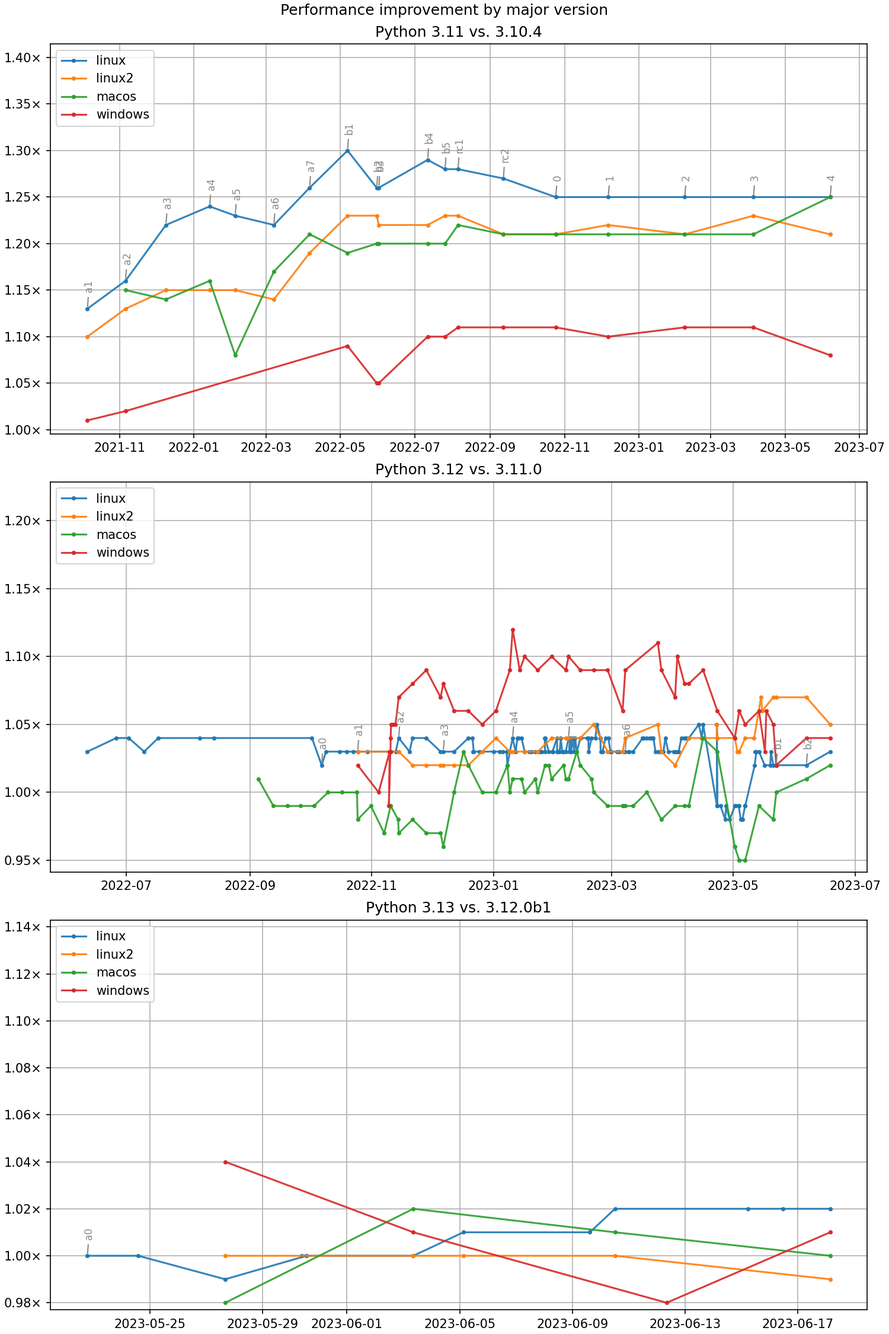
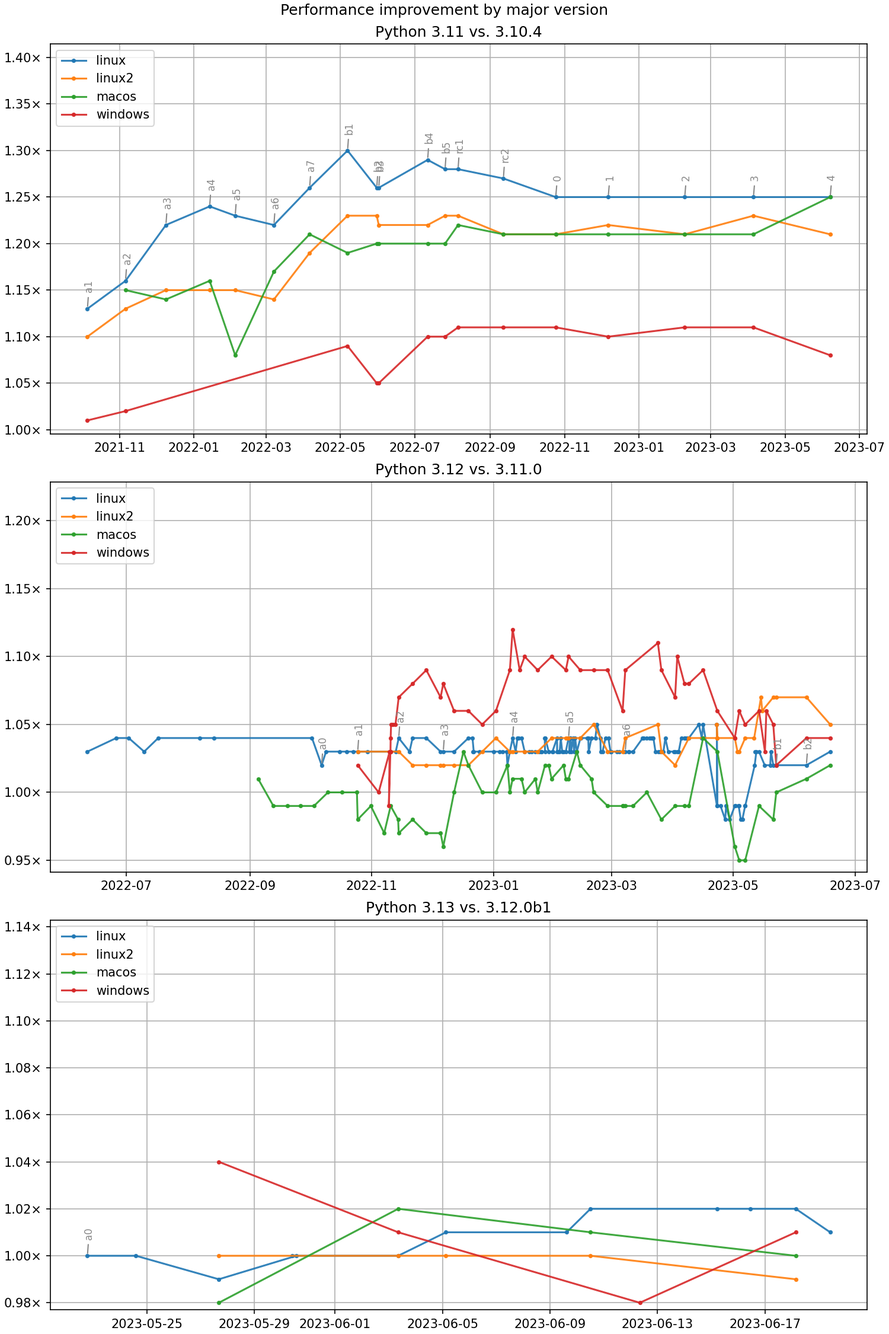
Benchmarking results for @gvanrossum

Changed region(s): [[0.2453, 0.8711, 0.9507, 0.9956], [0.1227, 0.9333, 0.184, 0.9956]]

diff --git a/results/bm-20230619-3.13.0a0-1858db7/bm-20230619-linux-x86_64-python-1858db7cbdbf41aa600c-3.13.0a0-1858db7-vs-3.10.4.md b/results/bm-20230619-3.13.0a0-1858db7/bm-20230619-linux-x86_64-python-1858db7cbdbf41aa600c-3.13.0a0-1858db7-vs-3.10.4.md
@@ -1,0 +1,166 @@
+
+# Results vs. 3.10.4
+
+- fork: python
+- ref: 1858db7cbdbf41aa600c
+- machine: linux-x86_64
+- commit hash: 1858db7
+- commit date: 2023-06-19
+- overall geometric mean: 1.30x faster
+
+Benchmarks with tag 'apps':
+===========================
+
+| Benchmark      | bm-20220323-linux-x86_64-python-v3.10.4-3.10.4-9d38120 | bm-20230619-linux-x86_64-python-1858db7cbdbf41aa600c-3.13.0a0-1858db7 |
+|----------------|:------------------------------------------------------:|:---------------------------------------------------------------------:|
+| docutils       | 3.17 sec                                               | 2.65 sec: 1.20x faster                                                |
+| tornado_http   | 127 ms                                                 | 97.5 ms: 1.31x faster                                                 |
+| Geometric mean | (ref)                                                  | 1.25x faster                                                          |
+
+Benchmarks with tag 'math':
+===========================
+
+| Benchmark      | bm-20220323-linux-x86_64-python-v3.10.4-3.10.4-9d38120 | bm-20230619-linux-x86_64-python-1858db7cbdbf41aa600c-3.13.0a0-1858db7 |
+|----------------|:------------------------------------------------------:|:---------------------------------------------------------------------:|
+| nbody          | 142 ms                                                 | 89.8 ms: 1.58x faster                                                 |
+| float          | 111 ms                                                 | 79.5 ms: 1.39x faster                                                 |
+| pidigits       | 190 ms                                                 | 197 ms: 1.04x slower                                                  |
+| Geometric mean | (ref)                                                  | 1.28x faster                                                          |
+
+Benchmarks with tag 'regex':
+============================
+
+| Benchmark      | bm-20220323-linux-x86_64-python-v3.10.4-3.10.4-9d38120 | bm-20230619-linux-x86_64-python-1858db7cbdbf41aa600c-3.13.0a0-1858db7 |
+|----------------|:------------------------------------------------------:|:---------------------------------------------------------------------:|
+| regex_compile  | 177 ms                                                 | 136 ms: 1.30x faster                                                  |
+| regex_v8       | 25.0 ms                                                | 22.0 ms: 1.14x faster                                                 |
+| regex_dna      | 222 ms                                                 | 208 ms: 1.07x faster                                                  |
+| regex_effbot   | 3.23 ms                                                | 3.50 ms: 1.09x slower                                                 |
+| Geometric mean | (ref)                                                  | 1.10x faster                                                          |
+
+Benchmarks with tag 'serialize':
+================================
+
+| Benchmark            | bm-20220323-linux-x86_64-python-v3.10.4-3.10.4-9d38120 | bm-20230619-linux-x86_64-python-1858db7cbdbf41aa600c-3.13.0a0-1858db7 |
+|----------------------|:------------------------------------------------------:|:---------------------------------------------------------------------:|
+| pickle_pure_python   | 455 us                                                 | 308 us: 1.48x faster                                                  |
+| unpickle_pure_python | 300 us                                                 | 216 us: 1.39x faster                                                  |
+| json_dumps           | 13.5 ms                                                | 9.76 ms: 1.39x faster                                                 |
+| tomli_loads          | 2.92 sec                                               | 2.21 sec: 1.32x faster                                                |
+| xml_etree_process    | 74.9 ms                                                | 57.7 ms: 1.30x faster                                                 |
+| json_loads           | 28.8 us                                                | 25.0 us: 1.15x faster                                                 |
+| xml_etree_generate   | 94.2 ms                                                | 84.5 ms: 1.11x faster                                                 |
+| xml_etree_iterparse  | 111 ms                                                 | 104 ms: 1.08x faster                                                  |
+| xml_etree_parse      | 163 ms                                                 | 153 ms: 1.07x faster                                                  |
+| pickle               | 10.3 us                                                | 10.6 us: 1.03x slower                                                 |
+| unpickle_list        | 4.82 us                                                | 4.95 us: 1.03x slower                                                 |
+| pickle_list          | 4.56 us                                                | 4.69 us: 1.03x slower                                                 |
+| unpickle             | 14.1 us                                                | 14.9 us: 1.05x slower                                                 |
+| pickle_dict          | 27.3 us                                                | 31.5 us: 1.16x slower                                                 |
+| Geometric mean       | (ref)                                                  | 1.13x faster                                                          |
+
+Benchmarks with tag 'startup':
+==============================
+
+| Benchmark              | bm-20220323-linux-x86_64-python-v3.10.4-3.10.4-9d38120 | bm-20230619-linux-x86_64-python-1858db7cbdbf41aa600c-3.13.0a0-1858db7 |
+|------------------------|:------------------------------------------------------:|:---------------------------------------------------------------------:|
+| python_startup         | 14.2 ms                                                | 9.20 ms: 1.54x faster                                                 |
+| python_startup_no_site | 5.82 ms                                                | 6.68 ms: 1.15x slower                                                 |
+| Geometric mean         | (ref)                                                  | 1.16x faster                                                          |
+
+Benchmarks with tag 'template':
+===============================
+
+| Benchmark | bm-20220323-linux-x86_64-python-v3.10.4-3.10.4-9d38120 | bm-20230619-linux-x86_64-python-1858db7cbdbf41aa600c-3.13.0a0-1858db7 |
+|-----------|:------------------------------------------------------:|:---------------------------------------------------------------------:|
+| mako      | 14.8 ms                                                | 10.9 ms: 1.35x faster                                                 |
+
+All benchmarks:
+===============
+
+| Benchmark                | bm-20220323-linux-x86_64-python-v3.10.4-3.10.4-9d38120 | bm-20230619-linux-x86_64-python-1858db7cbdbf41aa600c-3.13.0a0-1858db7 |
+|--------------------------|:------------------------------------------------------:|:---------------------------------------------------------------------:|
+| typing_runtime_protocols | 510 us                                                 | 141 us: 3.63x faster                                                  |
+| generators               | 76.8 ms                                                | 29.6 ms: 2.60x faster                                                 |
+| deltablue                | 7.42 ms                                                | 3.28 ms: 2.26x faster                                                 |
+| asyncio_tcp              | 925 ms                                                 | 507 ms: 1.82x faster                                                  |
+| richards_super           | 90.7 ms                                                | 50.3 ms: 1.80x faster                                                 |
+| logging_silent           | 175 ns                                                 | 101 ns: 1.74x faster                                                  |
+| chaos                    | 106 ms                                                 | 61.8 ms: 1.72x faster                                                 |
+| richards                 | 74.9 ms                                                | 44.2 ms: 1.70x faster                                                 |
+| go                       | 229 ms                                                 | 135 ms: 1.69x faster                                                  |
+| asyncio_tcp_ssl          | 3.01 sec                                               | 1.79 sec: 1.68x faster                                                |
+| scimark_sor              | 197 ms                                                 | 120 ms: 1.64x faster                                                  |
+| raytrace                 | 464 ms                                                 | 294 ms: 1.58x faster                                                  |
+| nbody                    | 142 ms                                                 | 89.8 ms: 1.58x faster                                                 |
+| hexiom                   | 9.53 ms                                                | 6.09 ms: 1.56x faster                                                 |
+| sqlglot_parse            | 2.06 ms                                                | 1.32 ms: 1.56x faster                                                 |
+| crypto_pyaes             | 118 ms                                                 | 76.7 ms: 1.54x faster                                                 |
+| python_startup           | 14.2 ms                                                | 9.20 ms: 1.54x faster                                                 |
+| scimark_monte_carlo      | 108 ms                                                 | 71.2 ms: 1.52x faster                                                 |
+| sqlglot_transpile        | 2.45 ms                                                | 1.63 ms: 1.50x faster                                                 |
+| unpack_sequence          | 64.7 ns                                                | 43.3 ns: 1.49x faster                                                 |
+| pyflate                  | 673 ms                                                 | 452 ms: 1.49x faster                                                  |
+| async_tree_io            | 1.77 sec                                               | 1.20 sec: 1.48x faster                                                |
+| async_tree_none          | 717 ms                                                 | 484 ms: 1.48x faster                                                  |
+| pickle_pure_python       | 455 us                                                 | 308 us: 1.48x faster                                                  |
+| scimark_lu               | 163 ms                                                 | 110 ms: 1.48x faster                                                  |
+| async_tree_memoization   | 854 ms                                                 | 588 ms: 1.45x faster                                                  |
+| spectral_norm            | 150 ms                                                 | 104 ms: 1.44x faster                                                  |
+| coroutines               | 31.8 ms                                                | 22.5 ms: 1.41x faster                                                 |
+| float                    | 111 ms                                                 | 79.5 ms: 1.39x faster                                                 |
+| deepcopy_memo            | 52.3 us                                                | 37.7 us: 1.39x faster                                                 |
+| unpickle_pure_python     | 300 us                                                 | 216 us: 1.39x faster                                                  |
+| json_dumps               | 13.5 ms                                                | 9.76 ms: 1.39x faster                                                 |
+| logging_format           | 8.91 us                                                | 6.57 us: 1.36x faster                                                 |
+| mako                     | 14.8 ms                                                | 10.9 ms: 1.35x faster                                                 |
+| pprint_pformat           | 1.99 sec                                               | 1.48 sec: 1.34x faster                                                |
+| logging_simple           | 8.07 us                                                | 6.09 us: 1.33x faster                                                 |
+| pycparser                | 1.50 sec                                               | 1.13 sec: 1.32x faster                                                |
+| tomli_loads              | 2.92 sec                                               | 2.21 sec: 1.32x faster                                                |
+| async_tree_cpu_io_mixed  | 951 ms                                                 | 726 ms: 1.31x faster                                                  |
+| pprint_safe_repr         | 955 ms                                                 | 729 ms: 1.31x faster                                                  |
+| tornado_http             | 127 ms                                                 | 97.5 ms: 1.31x faster                                                 |
+| regex_compile            | 177 ms                                                 | 136 ms: 1.30x faster                                                  |
+| comprehensions           | 26.8 us                                                | 20.7 us: 1.30x faster                                                 |
+| xml_etree_process        | 74.9 ms                                                | 57.7 ms: 1.30x faster                                                 |
+| mypy2                    | 428 ms                                                 | 339 ms: 1.27x faster                                                  |
+| nqueens                  | 100 ms                                                 | 79.2 ms: 1.26x faster                                                 |
+| sqlglot_normalize        | 135 ms                                                 | 107 ms: 1.26x faster                                                  |
+| deepcopy                 | 442 us                                                 | 356 us: 1.24x faster                                                  |
+| fannkuch                 | 486 ms                                                 | 394 ms: 1.23x faster                                                  |
+| scimark_fft              | 424 ms                                                 | 344 ms: 1.23x faster                                                  |
+| sqlglot_optimize         | 65.3 ms                                                | 53.1 ms: 1.23x faster                                                 |
+| deepcopy_reduce          | 3.82 us                                                | 3.17 us: 1.21x faster                                                 |
+| docutils                 | 3.17 sec                                               | 2.65 sec: 1.20x faster                                                |
+| scimark_sparse_mat_mult  | 5.45 ms                                                | 4.63 ms: 1.18x faster                                                 |
+| dulwich_log              | 75.9 ms                                                | 65.4 ms: 1.16x faster                                                 |
+| bench_thread_pool        | 947 us                                                 | 821 us: 1.15x faster                                                  |
+| json_loads               | 28.8 us                                                | 25.0 us: 1.15x faster                                                 |
+| regex_v8                 | 25.0 ms                                                | 22.0 ms: 1.14x faster                                                 |
+| json                     | 5.42 ms                                                | 4.80 ms: 1.13x faster                                                 |
+| mdp                      | 2.82 sec                                               | 2.53 sec: 1.12x faster                                                |
+| xml_etree_generate       | 94.2 ms                                                | 84.5 ms: 1.11x faster                                                 |
+| create_gc_cycles         | 1.67 ms                                                | 1.51 ms: 1.11x faster                                                 |
+| meteor_contest           | 115 ms                                                 | 104 ms: 1.10x faster                                                  |
+| sqlite_synth             | 2.93 us                                                | 2.71 us: 1.08x faster                                                 |
+| xml_etree_iterparse      | 111 ms                                                 | 104 ms: 1.08x faster                                                  |
+| xml_etree_parse          | 163 ms                                                 | 153 ms: 1.07x faster                                                  |
+| regex_dna                | 222 ms                                                 | 208 ms: 1.07x faster                                                  |
+| pathlib                  | 20.0 ms                                                | 18.8 ms: 1.07x faster                                                 |
+| bench_mp_pool            | 24.0 ms                                                | 24.0 ms: 1.00x slower                                                 |
+| gc_traversal             | 3.84 ms                                                | 3.93 ms: 1.02x slower                                                 |
+| pickle                   | 10.3 us                                                | 10.6 us: 1.03x slower                                                 |
+| unpickle_list            | 4.82 us                                                | 4.95 us: 1.03x slower                                                 |
+| pickle_list              | 4.56 us                                                | 4.69 us: 1.03x slower                                                 |
+| pidigits                 | 190 ms                                                 | 197 ms: 1.04x slower                                                  |
+| unpickle                 | 14.1 us                                                | 14.9 us: 1.05x slower                                                 |
+| telco                    | 6.54 ms                                                | 6.91 ms: 1.06x slower                                                 |
+| async_generators         | 425 ms                                                 | 458 ms: 1.08x slower                                                  |
+| regex_effbot             | 3.23 ms                                                | 3.50 ms: 1.09x slower                                                 |
+| python_startup_no_site   | 5.82 ms                                                | 6.68 ms: 1.15x slower                                                 |
+| pickle_dict              | 27.3 us                                                | 31.5 us: 1.16x slower                                                 |
+| dask                     | 423 ms                                                 | 523 ms: 1.24x slower                                                  |
+| coverage                 | 72.8 ms                                                | 93.4 ms: 1.28x slower                                                 |
+| Geometric mean           | (ref)                                                  | 1.30x faster                                                          |
+Ignored benchmarks (18) of /home/runner/work/benchmarking/benchmarking/results/bm-20220323-3.10.4-9d38120/bm-20220323-linux-x86_64-python-v3.10.4-3.10.4-9d38120.json: 2to3, aiohttp, chameleon, django_template, djangocms, flaskblogging, genshi_text, genshi_xml, gunicorn, html5lib, pylint, sqlalchemy_declarative, sqlalchemy_imperative, sympy_expand, sympy_integrate, sympy_str, sympy_sum, thrift

diff --git a/results/bm-20230619-3.13.0a0-1858db7/bm-20230619-linux-x86_64-python-1858db7cbdbf41aa600c-3.13.0a0-1858db7-vs-3.11.0.md b/results/bm-20230619-3.13.0a0-1858db7/bm-20230619-linux-x86_64-python-1858db7cbdbf41aa600c-3.13.0a0-1858db7-vs-3.11.0.md
@@ -1,0 +1,162 @@
+
+# Results vs. 3.11.0
+
+- fork: python
+- ref: 1858db7cbdbf41aa600c
+- machine: linux-x86_64
+- commit hash: 1858db7
+- commit date: 2023-06-19
+- overall geometric mean: 1.04x faster
+
+Benchmarks with tag 'apps':
+===========================
+
+| Benchmark      | bm-20221024-linux-x86_64-python-v3.11.0-3.11.0-deaf509 | bm-20230619-linux-x86_64-python-1858db7cbdbf41aa600c-3.13.0a0-1858db7 |
+|----------------|:------------------------------------------------------:|:---------------------------------------------------------------------:|
+| docutils       | 2.63 sec                                               | 2.65 sec: 1.01x slower                                                |
+| tornado_http   | 96.3 ms                                                | 97.5 ms: 1.01x slower                                                 |
+| Geometric mean | (ref)                                                  | 1.01x slower                                                          |
+
+Benchmarks with tag 'math':
+===========================
+
+| Benchmark      | bm-20221024-linux-x86_64-python-v3.11.0-3.11.0-deaf509 | bm-20230619-linux-x86_64-python-1858db7cbdbf41aa600c-3.13.0a0-1858db7 |
+|----------------|:------------------------------------------------------:|:---------------------------------------------------------------------:|
+| nbody          | 93.1 ms                                                | 89.8 ms: 1.04x faster                                                 |
+| pidigits       | 198 ms                                                 | 197 ms: 1.00x faster                                                  |
+| float          | 77.2 ms                                                | 79.5 ms: 1.03x slower                                                 |
+| Geometric mean | (ref)                                                  | 1.00x faster                                                          |
+
+Benchmarks with tag 'regex':
+============================
+
+| Benchmark      | bm-20221024-linux-x86_64-python-v3.11.0-3.11.0-deaf509 | bm-20230619-linux-x86_64-python-1858db7cbdbf41aa600c-3.13.0a0-1858db7 |
+|----------------|:------------------------------------------------------:|:---------------------------------------------------------------------:|
+| regex_effbot   | 3.99 ms                                                | 3.50 ms: 1.14x faster                                                 |
+| regex_compile  | 138 ms                                                 | 136 ms: 1.02x faster                                                  |
+| regex_dna      | 204 ms                                                 | 208 ms: 1.02x slower                                                  |
+| Geometric mean | (ref)                                                  | 1.03x faster                                                          |
+
+Benchmark hidden because not significant (1): regex_v8
+
+Benchmarks with tag 'serialize':
+================================
+
+| Benchmark            | bm-20221024-linux-x86_64-python-v3.11.0-3.11.0-deaf509 | bm-20230619-linux-x86_64-python-1858db7cbdbf41aa600c-3.13.0a0-1858db7 |
+|----------------------|:------------------------------------------------------:|:---------------------------------------------------------------------:|
+| json_dumps           | 12.6 ms                                                | 9.76 ms: 1.29x faster                                                 |
+| json_loads           | 26.5 us                                                | 25.0 us: 1.06x faster                                                 |
+| unpickle_pure_python | 228 us                                                 | 216 us: 1.06x faster                                                  |
+| xml_etree_parse      | 158 ms                                                 | 153 ms: 1.04x faster                                                  |
+| pickle_pure_python   | 306 us                                                 | 308 us: 1.01x slower                                                  |
+| unpickle_list        | 4.91 us                                                | 4.95 us: 1.01x slower                                                 |
+| pickle_dict          | 31.1 us                                                | 31.5 us: 1.01x slower                                                 |
+| pickle               | 10.1 us                                                | 10.6 us: 1.05x slower                                                 |
+| xml_etree_process    | 53.9 ms                                                | 57.7 ms: 1.07x slower                                                 |
+| unpickle             | 13.7 us                                                | 14.9 us: 1.09x slower                                                 |
+| xml_etree_generate   | 76.2 ms                                                | 84.5 ms: 1.11x slower                                                 |
+| pickle_list          | 4.11 us                                                | 4.69 us: 1.14x slower                                                 |
+| Geometric mean       | (ref)                                                  | 1.00x slower                                                          |
+
+Benchmark hidden because not significant (2): xml_etree_iterparse, tomli_loads
+
+Benchmarks with tag 'startup':
+==============================
+
+| Benchmark              | bm-20221024-linux-x86_64-python-v3.11.0-3.11.0-deaf509 | bm-20230619-linux-x86_64-python-1858db7cbdbf41aa600c-3.13.0a0-1858db7 |
+|------------------------|:------------------------------------------------------:|:---------------------------------------------------------------------:|
+| python_startup         | 8.52 ms                                                | 9.20 ms: 1.08x slower                                                 |
+| python_startup_no_site | 6.01 ms                                                | 6.68 ms: 1.11x slower                                                 |
+| Geometric mean         | (ref)                                                  | 1.10x slower                                                          |
+
+Benchmarks with tag 'template':
+===============================
+
+| Benchmark | bm-20221024-linux-x86_64-python-v3.11.0-3.11.0-deaf509 | bm-20230619-linux-x86_64-python-1858db7cbdbf41aa600c-3.13.0a0-1858db7 |
+|-----------|:------------------------------------------------------:|:---------------------------------------------------------------------:|
+| mako      | 10.1 ms                                                | 10.9 ms: 1.08x slower                                                 |
+
+All benchmarks:
+===============
+
+| Benchmark                | bm-20221024-linux-x86_64-python-v3.11.0-3.11.0-deaf509 | bm-20230619-linux-x86_64-python-1858db7cbdbf41aa600c-3.13.0a0-1858db7 |
+|--------------------------|:------------------------------------------------------:|:---------------------------------------------------------------------:|
+| typing_runtime_protocols | 486 us                                                 | 141 us: 3.46x faster                                                  |
+| generators               | 73.5 ms                                                | 29.6 ms: 2.49x faster                                                 |
+| asyncio_tcp              | 922 ms                                                 | 507 ms: 1.82x faster                                                  |
+| asyncio_tcp_ssl          | 3.14 sec                                               | 1.79 sec: 1.75x faster                                                |
+| json_dumps               | 12.6 ms                                                | 9.76 ms: 1.29x faster                                                 |
+| mypy2                    | 420 ms                                                 | 339 ms: 1.24x faster                                                  |
+| regex_effbot             | 3.99 ms                                                | 3.50 ms: 1.14x faster                                                 |
+| coroutines               | 25.5 ms                                                | 22.5 ms: 1.13x faster                                                 |
+| richards_super           | 56.8 ms                                                | 50.3 ms: 1.13x faster                                                 |
+| deltablue                | 3.67 ms                                                | 3.28 ms: 1.12x faster                                                 |
+| chaos                    | 69.2 ms                                                | 61.8 ms: 1.12x faster                                                 |
+| async_tree_none          | 526 ms                                                 | 484 ms: 1.09x faster                                                  |
+| comprehensions           | 22.4 us                                                | 20.7 us: 1.09x faster                                                 |
+| async_tree_io            | 1.30 sec                                               | 1.20 sec: 1.08x faster                                                |
+| coverage                 | 100 ms                                                 | 93.4 ms: 1.07x faster                                                 |
+| async_tree_memoization   | 627 ms                                                 | 588 ms: 1.07x faster                                                  |
+| sqlglot_parse            | 1.40 ms                                                | 1.32 ms: 1.06x faster                                                 |
+| json_loads               | 26.5 us                                                | 25.0 us: 1.06x faster                                                 |
+| unpickle_pure_python     | 228 us                                                 | 216 us: 1.06x faster                                                  |
+| nqueens                  | 83.4 ms                                                | 79.2 ms: 1.05x faster                                                 |
+| hexiom                   | 6.37 ms                                                | 6.09 ms: 1.05x faster                                                 |
+| sqlglot_transpile        | 1.70 ms                                                | 1.63 ms: 1.04x faster                                                 |
+| pycparser                | 1.18 sec                                               | 1.13 sec: 1.04x faster                                                |
+| xml_etree_parse          | 158 ms                                                 | 153 ms: 1.04x faster                                                  |
+| nbody                    | 93.1 ms                                                | 89.8 ms: 1.04x faster                                                 |
+| richards                 | 45.7 ms                                                | 44.2 ms: 1.04x faster                                                 |
+| mdp                      | 2.62 sec                                               | 2.53 sec: 1.03x faster                                                |
+| go                       | 140 ms                                                 | 135 ms: 1.03x faster                                                  |
+| json                     | 4.94 ms                                                | 4.80 ms: 1.03x faster                                                 |
+| gc_traversal             | 4.02 ms                                                | 3.93 ms: 1.02x faster                                                 |
+| meteor_contest           | 107 ms                                                 | 104 ms: 1.02x faster                                                  |
+| logging_format           | 6.68 us                                                | 6.57 us: 1.02x faster                                                 |
+| async_tree_cpu_io_mixed  | 739 ms                                                 | 726 ms: 1.02x faster                                                  |
+| regex_compile            | 138 ms                                                 | 136 ms: 1.02x faster                                                  |
+| raytrace                 | 297 ms                                                 | 294 ms: 1.01x faster                                                  |
+| sqlglot_normalize        | 108 ms                                                 | 107 ms: 1.01x faster                                                  |
+| pidigits                 | 198 ms                                                 | 197 ms: 1.00x faster                                                  |
+| bench_thread_pool        | 819 us                                                 | 821 us: 1.00x slower                                                  |
+| pickle_pure_python       | 306 us                                                 | 308 us: 1.01x slower                                                  |
+| scimark_lu               | 110 ms                                                 | 110 ms: 1.01x slower                                                  |
+| docutils                 | 2.63 sec                                               | 2.65 sec: 1.01x slower                                                |
+| unpickle_list            | 4.91 us                                                | 4.95 us: 1.01x slower                                                 |
+| logging_simple           | 6.03 us                                                | 6.09 us: 1.01x slower                                                 |
+| tornado_http             | 96.3 ms                                                | 97.5 ms: 1.01x slower                                                 |
+| scimark_sor              | 118 ms                                                 | 120 ms: 1.01x slower                                                  |
+| pickle_dict              | 31.1 us                                                | 31.5 us: 1.01x slower                                                 |
+| create_gc_cycles         | 1.49 ms                                                | 1.51 ms: 1.01x slower                                                 |
+| fannkuch                 | 388 ms                                                 | 394 ms: 1.01x slower                                                  |
+| pprint_pformat           | 1.46 sec                                               | 1.48 sec: 1.02x slower                                                |
+| deepcopy_memo            | 37.0 us                                                | 37.7 us: 1.02x slower                                                 |
+| regex_dna                | 204 ms                                                 | 208 ms: 1.02x slower                                                  |
+| crypto_pyaes             | 74.7 ms                                                | 76.7 ms: 1.03x slower                                                 |
+| dulwich_log              | 63.7 ms                                                | 65.4 ms: 1.03x slower                                                 |
+| float                    | 77.2 ms                                                | 79.5 ms: 1.03x slower                                                 |
+| pathlib                  | 18.2 ms                                                | 18.8 ms: 1.03x slower                                                 |
+| scimark_sparse_mat_mult  | 4.50 ms                                                | 4.63 ms: 1.03x slower                                                 |
+| pprint_safe_repr         | 701 ms                                                 | 729 ms: 1.04x slower                                                  |
+| spectral_norm            | 100 ms                                                 | 104 ms: 1.04x slower                                                  |
+| deepcopy                 | 342 us                                                 | 356 us: 1.04x slower                                                  |
+| scimark_monte_carlo      | 68.1 ms                                                | 71.2 ms: 1.05x slower                                                 |
+| scimark_fft              | 328 ms                                                 | 344 ms: 1.05x slower                                                  |
+| pickle                   | 10.1 us                                                | 10.6 us: 1.05x slower                                                 |
+| telco                    | 6.58 ms                                                | 6.91 ms: 1.05x slower                                                 |
+| xml_etree_process        | 53.9 ms                                                | 57.7 ms: 1.07x slower                                                 |
+| sqlite_synth             | 2.52 us                                                | 2.71 us: 1.08x slower                                                 |
+| python_startup           | 8.52 ms                                                | 9.20 ms: 1.08x slower                                                 |
+| deepcopy_reduce          | 2.94 us                                                | 3.17 us: 1.08x slower                                                 |
+| pyflate                  | 418 ms                                                 | 452 ms: 1.08x slower                                                  |
+| mako                     | 10.1 ms                                                | 10.9 ms: 1.08x slower                                                 |
+| unpickle                 | 13.7 us                                                | 14.9 us: 1.09x slower                                                 |
+| xml_etree_generate       | 76.2 ms                                                | 84.5 ms: 1.11x slower                                                 |
+| python_startup_no_site   | 6.01 ms                                                | 6.68 ms: 1.11x slower                                                 |
+| pickle_list              | 4.11 us                                                | 4.69 us: 1.14x slower                                                 |
+| async_generators         | 368 ms                                                 | 458 ms: 1.24x slower                                                  |
+| dask                     | 360 ms                                                 | 523 ms: 1.45x slower                                                  |
+| Geometric mean           | (ref)                                                  | 1.04x faster                                                          |
+
+Benchmark hidden because not significant (7): xml_etree_iterparse, tomli_loads, logging_silent, bench_mp_pool, regex_v8, sqlglot_optimize, unpack_sequence
+Ignored benchmarks (18) of /home/runner/work/benchmarking/benchmarking/results/bm-20221024-3.11.0-deaf509/bm-20221024-linux-x86_64-python-v3.11.0-3.11.0-deaf509.json: 2to3, aiohttp, chameleon, django_template, djangocms, flaskblogging, genshi_text, genshi_xml, gunicorn, html5lib, pylint, sqlalchemy_declarative, sqlalchemy_imperative, sympy_expand, sympy_integrate, sympy_str, sympy_sum, thrift

diff --git a/README.md b/README.md
@@ -10,6 +10,7 @@ Here are some recent and important revisions. 👉 [Complete list of results](RE
 ## linux x86_64 (linux)
 | date | fork | ref | version | hash | vs. 3.10.4: | vs. 3.11.0: | vs. base: |
 | --- | --- | --- | --- | --- | ---: | ---: | ---: |
+| [2023-06-19](results/bm-20230619-3.13.0a0-1858db7) | python | 1858db7cbd | 3.13.0a0 | 1858db7 | [1.30x faster](results/bm-20230619-3.13.0a0-1858db7/bm-20230619-linux-x86_64-python-1858db7cbdbf41aa600c-3.13.0a0-1858db7-vs-3.10.4.md) | [1.04x faster](results/bm-20230619-3.13.0a0-1858db7/bm-20230619-linux-x86_64-python-1858db7cbdbf41aa600c-3.13.0a0-1858db7-vs-3.11.0.md) |  |
 | [2023-06-18](results/bm-20230618-3.13.0a0-dba7217) | python | dba7217511 | 3.13.0a0 | dba7217 | [1.30x faster](results/bm-20230618-3.13.0a0-dba7217/bm-20230618-linux-x86_64-python-dba72175116373c1d15e-3.13.0a0-dba7217-vs-3.10.4.md) | [1.04x faster](results/bm-20230618-3.13.0a0-dba7217/bm-20230618-linux-x86_64-python-dba72175116373c1d15e-3.13.0a0-dba7217-vs-3.11.0.md) |  |
 | [2023-06-16](results/bm-20230616-3.13.0a0-2beab5b) | python | 2beab5bdef | 3.13.0a0 | 2beab5b | [1.30x faster](results/bm-20230616-3.13.0a0-2beab5b/bm-20230616-linux-x86_64-python-2beab5bdef5fa2a00a59-3.13.0a0-2beab5b-vs-3.10.4.md) | [1.05x faster](results/bm-20230616-3.13.0a0-2beab5b/bm-20230616-linux-x86_64-python-2beab5bdef5fa2a00a59-3.13.0a0-2beab5b-vs-3.11.0.md) |  |
 | [2023-06-16](results/bm-20230616-3.13.0a0-47205b2) | brandtbucher | clean_up_c | 3.13.0a0 | 47205b2 | [1.29x faster](results/bm-20230616-3.13.0a0-47205b2/bm-20230616-linux-x86_64-brandtbucher-clean_up_calls-3.13.0a0-47205b2-vs-3.10.4.md) | [1.03x faster](results/bm-20230616-3.13.0a0-47205b2/bm-20230616-linux-x86_64-brandtbucher-clean_up_calls-3.13.0a0-47205b2-vs-3.11.0.md) | [1.01x slower](results/bm-20230616-3.13.0a0-47205b2/bm-20230616-linux-x86_64-brandtbucher-clean_up_calls-3.13.0a0-47205b2-vs-base.md) |

diff --git a/RESULTS.md b/RESULTS.md
@@ -4,6 +4,7 @@
 ## linux x86_64 (linux)
 | date | fork | ref | version | hash | vs. 3.10.4: | vs. 3.11.0: | vs. base: |
 | --- | --- | --- | --- | --- | ---: | ---: | ---: |
+| [2023-06-19](results/bm-20230619-3.13.0a0-1858db7) | python | 1858db7cbd | 3.13.0a0 | 1858db7 | [1.30x faster](results/bm-20230619-3.13.0a0-1858db7/bm-20230619-linux-x86_64-python-1858db7cbdbf41aa600c-3.13.0a0-1858db7-vs-3.10.4.md) | [1.04x faster](results/bm-20230619-3.13.0a0-1858db7/bm-20230619-linux-x86_64-python-1858db7cbdbf41aa600c-3.13.0a0-1858db7-vs-3.11.0.md) |  |
 | [2023-06-18](results/bm-20230618-3.13.0a0-dba7217) | python | dba7217511 | 3.13.0a0 | dba7217 | [1.30x faster](results/bm-20230618-3.13.0a0-dba7217/bm-20230618-linux-x86_64-python-dba72175116373c1d15e-3.13.0a0-dba7217-vs-3.10.4.md) | [1.04x faster](results/bm-20230618-3.13.0a0-dba7217/bm-20230618-linux-x86_64-python-dba72175116373c1d15e-3.13.0a0-dba7217-vs-3.11.0.md) |  |
 | [2023-06-16](results/bm-20230616-3.13.0a0-2beab5b) | python | 2beab5bdef | 3.13.0a0 | 2beab5b | [1.30x faster](results/bm-20230616-3.13.0a0-2beab5b/bm-20230616-linux-x86_64-python-2beab5bdef5fa2a00a59-3.13.0a0-2beab5b-vs-3.10.4.md) | [1.05x faster](results/bm-20230616-3.13.0a0-2beab5b/bm-20230616-linux-x86_64-python-2beab5bdef5fa2a00a59-3.13.0a0-2beab5b-vs-3.11.0.md) |  |
 | [2023-06-16](results/bm-20230616-3.13.0a0-47205b2) | brandtbucher | clean_up_c | 3.13.0a0 | 47205b2 | [1.29x faster](results/bm-20230616-3.13.0a0-47205b2/bm-20230616-linux-x86_64-brandtbucher-clean_up_calls-3.13.0a0-47205b2-vs-3.10.4.md) | [1.03x faster](results/bm-20230616-3.13.0a0-47205b2/bm-20230616-linux-x86_64-brandtbucher-clean_up_calls-3.13.0a0-47205b2-vs-3.11.0.md) | [1.01x slower](results/bm-20230616-3.13.0a0-47205b2/bm-20230616-linux-x86_64-brandtbucher-clean_up_calls-3.13.0a0-47205b2-vs-base.md) |

diff --git a/results/bm-20230619-3.13.0a0-1858db7/README.md b/results/bm-20230619-3.13.0a0-1858db7/README.md
@@ -1,0 +1,29 @@
+# Results
+
+- fork: python
+- version: 3.13.0a0
+- commit hash: [1858db7](https://github.com/python/cpython/commit/1858db7)
+- commit date: 2023-06-19T17:09:04+00:00
+- ref: 1858db7cbdbf41aa600c
+
+## linux x86_64 (linux)
+
+- [GitHub Action run](https://github.com/faster-cpython/benchmarking/actions/runs/5315068096)
+- cpu model: Intel(R) Xeon(R) W-2255 CPU @ 3.70GHz
+- platform: Linux-5.4.0-122-generic-x86_64-with-glibc2.31
+- [raw results](bm-20230619-linux-x86_64-python-1858db7cbdbf41aa600c-3.13.0a0-1858db7.json)
+
+### vs. 3.10.4
+
+- 1.30x faster
+- missing benchmarks: 2to3, aiohttp, chameleon, django_template, djangocms, flaskblogging, genshi_text, genshi_xml, gunicorn, html5lib, pylint, sqlalchemy_declarative, sqlalchemy_imperative, sympy_expand, sympy_integrate, sympy_str, sympy_sum, thrift
+- [table](bm-20230619-linux-x86_64-python-1858db7cbdbf41aa600c-3.13.0a0-1858db7-vs-3.10.4.md)
+- [plot](bm-20230619-linux-x86_64-python-1858db7cbdbf41aa600c-3.13.0a0-1858db7-vs-3.10.4.png)
+
+### vs. 3.11.0
+
+- 1.04x faster
+- missing benchmarks: 2to3, aiohttp, chameleon, django_template, djangocms, flaskblogging, genshi_text, genshi_xml, gunicorn, html5lib, pylint, sqlalchemy_declarative, sqlalchemy_imperative, sympy_expand, sympy_integrate, sympy_str, sympy_sum, thrift
+- [table](bm-20230619-linux-x86_64-python-1858db7cbdbf41aa600c-3.13.0a0-1858db7-vs-3.11.0.md)
+- [plot](bm-20230619-linux-x86_64-python-1858db7cbdbf41aa600c-3.13.0a0-1858db7-vs-3.11.0.png)
+
